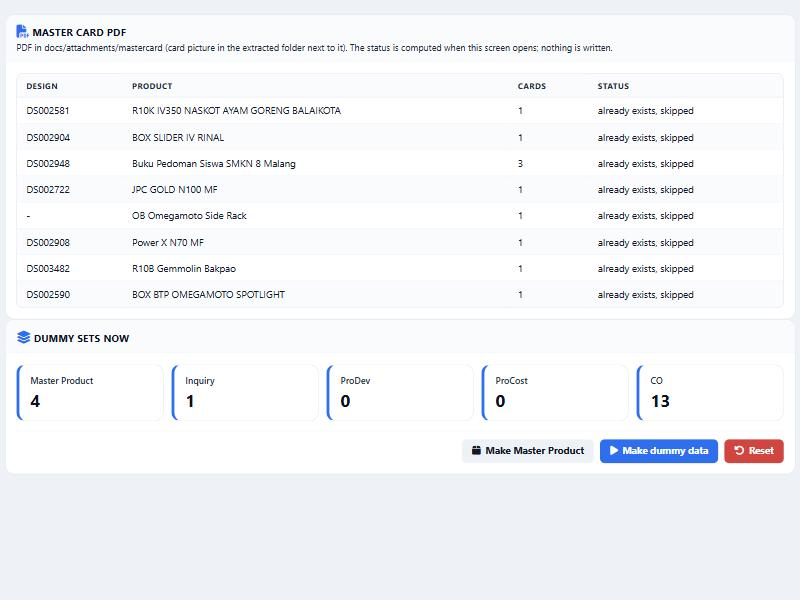
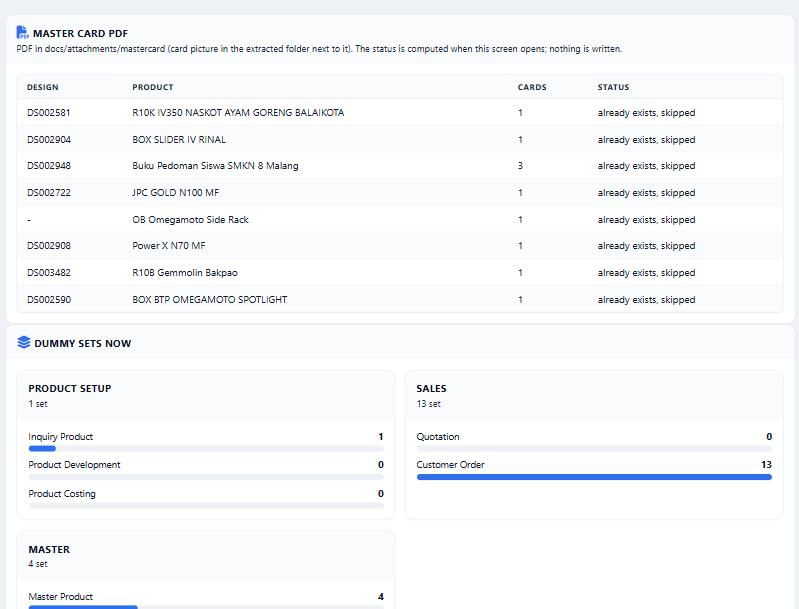
Master Card Dummy screen: sets per document grouped (Product setup, Sales, Master) with bars; Progress text prop; counts adds Quotation
Agent: Jo

diff --git a/resources/views/v2/dummy-mastercard.blade.php b/resources/views/v2/dummy-mastercard.blade.php
@@ -2,8 +2,8 @@
  REMARK
  Tujuan       : Status tiap PDF Master Card (siap / sudah ada / kurang apa), jumlah set dummy di tiap level (Master Product, Inquiry, ProDev, ProCost, CO), dan tiga tombol engine.
  Sumber hulu  : App\Services\MasterCard\MasterCardDummyEngine (counts, plan, run, reset) lewat routes/v2_dummy_mastercard.php.
- Input        : plan (design, name, cards, status), counts (product, inquiry, prodev, procost, co) dari route; flash v2_flash / v2_error; khusus developer.
- Output       : x-dl::table status PDF, x-dl::stat-box per level, tiga x-dl::button: Make Master Product, Make dummy data (POST v2.dummy.mastercard.run, mode product / dummy), Reset (POST v2.dummy.mastercard.reset). Hasil = data di ddt*.
+ Input        : plan (design, name, cards, status), counts (inquiry, prodev, procost, quotation, co, product) dari route; flash v2_flash / v2_error; khusus developer.
+ Output       : x-dl::table status PDF, x-dl::progress (jumlah + batang) per dokumen dalam kartu per kelompok, tiga x-dl::button: Make Master Product, Make dummy data (POST v2.dummy.mastercard.run, mode product / dummy), Reset (POST v2.dummy.mastercard.reset). Hasil = data di ddt*.
  Dipakai oleh : Menu Developer > Database > Master Card Dummy (PDF).
  Status       : Aktif (hanya database ddt*).
 --}}
@@ -23,14 +23,24 @@
                 :rows="array_map(fn ($p) => ['design' => raw($p['design'] ?? '-'), 'name' => raw($p['name']), 'cards' => $p['cards'], 'status' => raw($p['status'] === 'ready' ? t('Ready to build') : t($p['status']))], $plan)"
                 empty="No Master Card PDF found." source="docs/attachments/mastercard/*.pdf" />
         </x-dl::card>
+        @php
+            $max = max(1, ...array_values($counts));
+            $groups = [
+                'Product setup' => ['Inquiry Product' => 'inquiry', 'Product Development' => 'prodev', 'Product Costing' => 'procost'],
+                'Sales' => ['Quotation' => 'quotation', 'Customer Order' => 'co'],
+                'Master' => ['Master Product' => 'product'],
+            ];
+        @endphp
         <x-dl::card title="Dummy sets now" icon="fa-layer-group">
-            <x-dl::kpi-row>
-                <x-dl::stat-box label="Master Product" :value="$counts['product']" />
-                <x-dl::stat-box label="Inquiry" :value="$counts['inquiry']" />
-                <x-dl::stat-box label="ProDev" :value="$counts['prodev']" />
-                <x-dl::stat-box label="ProCost" :value="$counts['procost']" />
-                <x-dl::stat-box label="CO" :value="$counts['co']" />
-            </x-dl::kpi-row>
+            <x-dl::cols>
+                @foreach ($groups as $title => $rows)
+                    <x-dl::card :title="$title" :description="raw(array_sum(array_map(fn ($k) => $counts[$k], $rows)).' '.t('set'))">
+                        @foreach ($rows as $label => $key)
+                            <x-dl::progress :value="$counts[$key] / $max * 100" :label="$label" :text="(string) $counts[$key]" />
+                        @endforeach
+                    </x-dl::card>
+                @endforeach
+            </x-dl::cols>
             <x-dl::action-bar>
                 <x-dl::action-form action="{{ route('v2.dummy.mastercard.run', 'product') }}">
                     <x-dl::button type="submit" variant="secondary" icon="fa-box" label="Make Master Product"

diff --git a/app/Services/MasterCard/MasterCardDummyEngine.php b/app/Services/MasterCard/MasterCardDummyEngine.php
@@ -69,21 +69,26 @@ final class MasterCardDummyEngine
     }
 
     /**
-     * Dummy sets now in the database, by the highest level each one reached (Inquiry confirmed by Sales, ProDev, ProCost, CO).
+     * Dummy sets now in the database, by the furthest document each one reached: Inquiry confirmed by Sales, ProDev, ProCost, Quotation, CO;
+     * 'product' = made straight into a Master Product (no ProDev, no CO).
      *
      * @return array<string,int>
      */
     public function counts(): array
     {
-        $rows = DB::connection('tm2sdi')->table('iqp_inquiry')->where('data_origin', 'DUMMY')->where('stat_cancel', 0)
-            ->get(['stat_confirm_sales', 'stat_confirm_prodev', 'stat_confirm_procost', 'co_id', 'product_id']);
+        $sdi = DB::connection('tm2sdi');
+        $rows = $sdi->table('iqp_inquiry')->where('data_origin', 'DUMMY')->where('stat_cancel', 0)
+            ->get(['id_inquiry', 'stat_confirm_sales', 'stat_confirm_prodev', 'stat_confirm_procost', 'co_id', 'product_id']);
+        $quoted = $sdi->table('quo_quotation_item')->whereIn('inquiry_id', $rows->pluck('id_inquiry'))->pluck('inquiry_id')->flip();
+        $open = $rows->whereNull('co_id');
 
         return [
-            'inquiry' => $rows->where('stat_confirm_sales', 1)->where('stat_confirm_prodev', 0)->where('stat_confirm_procost', 0)->whereNull('co_id')->whereNull('product_id')->count(),
-            'prodev' => $rows->where('stat_confirm_prodev', 1)->where('stat_confirm_procost', 0)->whereNull('co_id')->count(),
-            'procost' => $rows->where('stat_confirm_procost', 1)->whereNull('co_id')->count(),
+            'inquiry' => $open->where('stat_confirm_sales', 1)->where('stat_confirm_prodev', 0)->where('stat_confirm_procost', 0)->whereNull('product_id')->count(),
+            'prodev' => $open->where('stat_confirm_prodev', 1)->where('stat_confirm_procost', 0)->count(),
+            'procost' => $open->where('stat_confirm_procost', 1)->reject(fn ($r) => isset($quoted[$r->id_inquiry]))->count(),
+            'quotation' => $open->filter(fn ($r) => isset($quoted[$r->id_inquiry]))->count(),
             'co' => $rows->whereNotNull('co_id')->count(),
-            'product' => $rows->where('stat_confirm_prodev', 0)->whereNull('co_id')->whereNotNull('product_id')->count(),
+            'product' => $open->where('stat_confirm_prodev', 0)->whereNotNull('product_id')->count(),
         ];
     }
 

diff --git a/packages/devlib/src/Components/Progress.php b/packages/devlib/src/Components/Progress.php
@@ -3,12 +3,14 @@
 namespace Devlib\Components;
 
 // Batang kemajuan; tone otomatis dari nilai bila tone="auto" (>=80 hijau, >=50 kuning, sisanya merah).
+// text = teks di sisi kanan label sebagai ganti persen (mis. jumlah); bar tetap menurut value.
 class Progress extends DevlibComponent
 {
     public function __construct(
         public float $value = 0,
         public string $tone = 'accent',
         public ?string $label = null,
+        public ?string $text = null,
     ) {}
 
     public function tag(): string
@@ -21,7 +23,7 @@ class Progress extends DevlibComponent
         return <<<'BLADE'
             @php($t = $tone === 'auto' ? ($value >= 80 ? 'success' : ($value >= 50 ? 'warn' : 'danger')) : $tone)
             <div {{ $attributes->class(['dl-progress', 'dl-progress--'.$t]) }} {!! $dl() !!}>
-                @if ($label)<div class="dl-progress__label"><span>{{ $label }}</span><b>{{ \Devlib\Locale::percent($value, 0) }}</b></div>@endif
+                @if ($label)<div class="dl-progress__label"><span>{{ $label }}</span><b>{{ $text ?? \Devlib\Locale::percent($value, 0) }}</b></div>@endif
                 <div class="dl-progress__track"><div class="dl-progress__bar" style="width:{{ max(0, min(100, $value)) }}%"></div></div>
             </div>
             BLADE;
